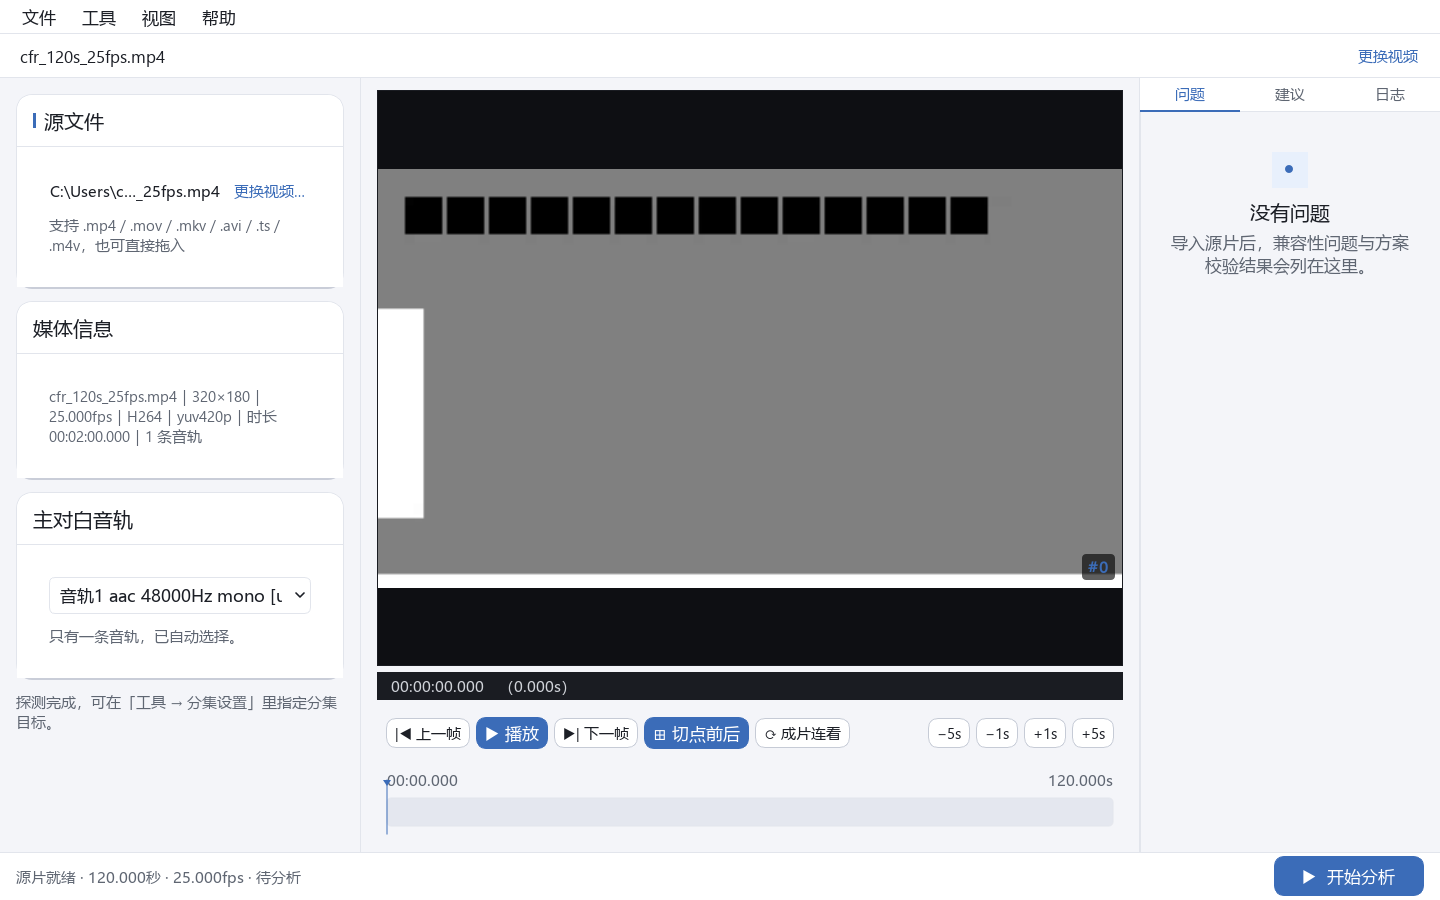
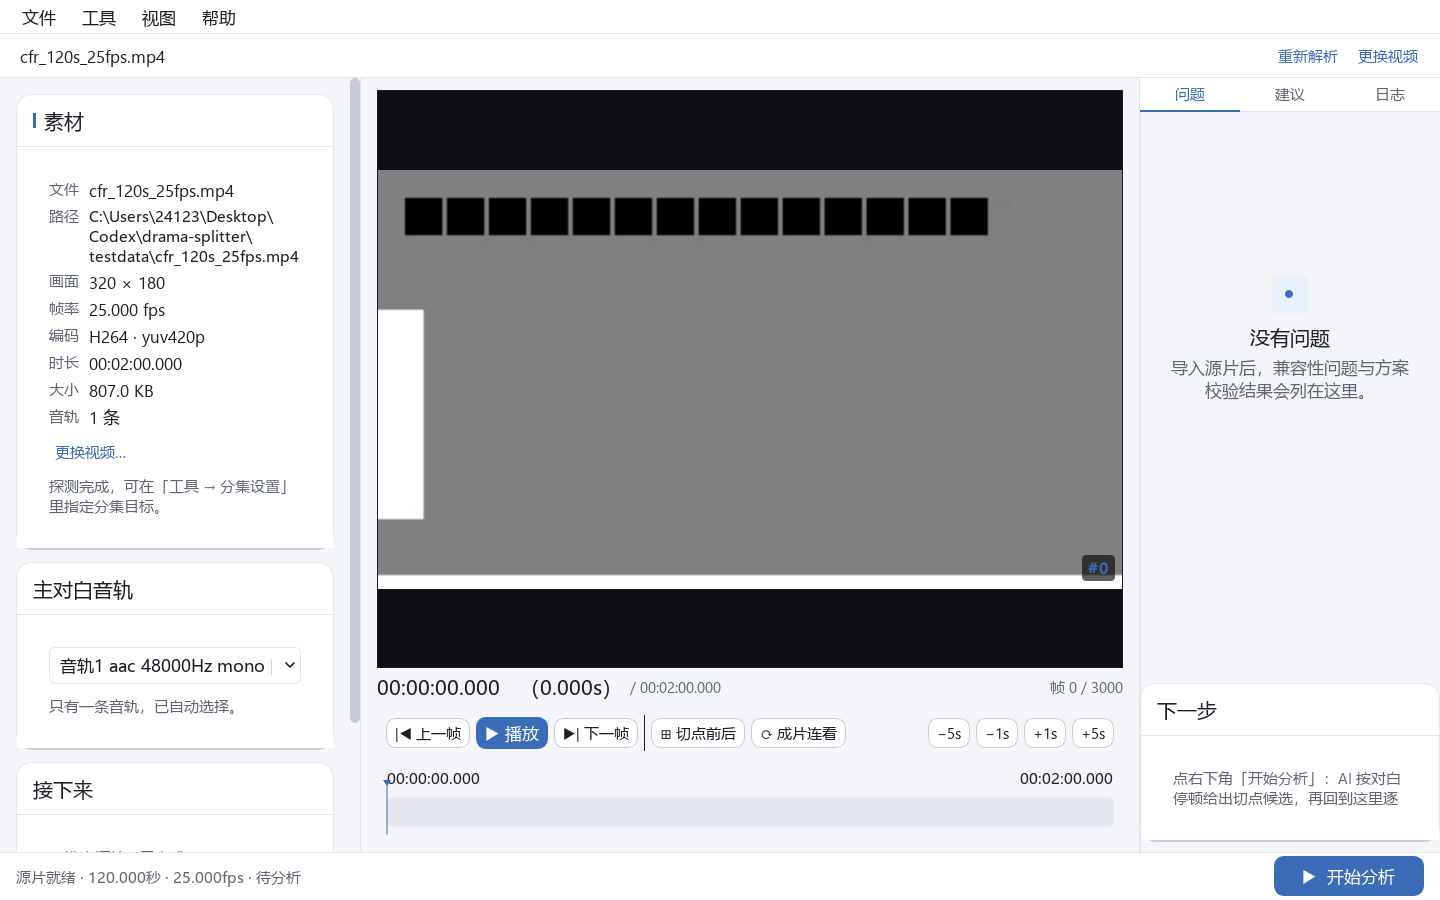
docs(ui): 重录界面截图（浅/深两套）——按新版的素材就绪页；截图脚本收尾显式拆 Qt（退出码不再崩）

diff --git a/tools/screenshot_gui.py b/tools/screenshot_gui.py
@@ -309,5 +309,35 @@ def main(argv: list[str] | None = None) -> int:
     return 0
 
 
+def teardown_qt() -> None:
+    """显式拆掉 Qt，再让解释器退出。
+
+    留给解释器收尾会在 Qt 里 fail-fast（0xC0000409）——截图**已经写完了**，
+    但脚本返回码会变成崩溃码，脚本化调用者会以为失败了。
+    """
+    try:
+        import shiboken6
+        from PySide6.QtWidgets import QApplication
+    except ImportError:      # 没装 Qt
+        return
+    app = QApplication.instance()
+    if app is None:
+        return
+    for widget in list(app.topLevelWidgets()):
+        try:
+            widget.close()
+            widget.deleteLater()
+        except RuntimeError:  # C++ 侧已释放
+            continue
+    app.processEvents()
+    app.quit()
+    try:
+        shiboken6.delete(app)
+    except Exception:  # noqa: BLE001 - 拆不掉也别再抛
+        pass
+
+
 if __name__ == "__main__":
-    raise SystemExit(main())
+    code = main()
+    teardown_qt()
+    raise SystemExit(code)
